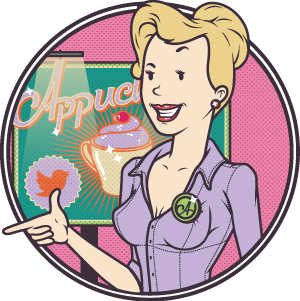
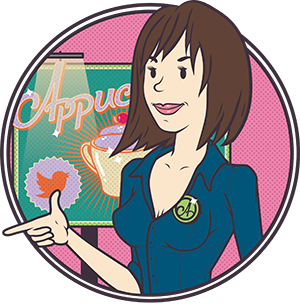
new pictures, client first foto, small css fix in about_us

diff --git a/about_us.html b/about_us.html
@@ -45,7 +45,7 @@
 		<div class="persons_list">
 
 			<div class="person">
-				<div class="foto"><img src="images/about_us/person-01.png" /></div>
+				<div class="foto"><img src="images/about_us/person-01.png" srcset="images/about_us/person-01hq.png"/></div>
 				<div class="name">Alexey Rashevksiy</div>
 				<div class="occupation">Founder & Manager</div>
 				<div class="about">I am not sure whether you need to tell couple of nice words about that useful member of your team.</div>
@@ -69,7 +69,7 @@
 				<div class="about">With all the talk about self-improvement these days, people don't pay enough attention to self-worsening.</div>
 			</div>
 			<div class="person">
-				<div class="foto"><img src="images/about_us/person-05.png" /></div>
+				<div class="foto"><img src="images/about_us/person-05.png"  srcset="images/about_us/person-05hq.png"/></div>
 				<div class="name">Miss Moneypenny</div>
 				<div class="occupation">Doing all the work</div>
 				<div class="about">I enjoyed working in male-dominated teams in the knowledge that being the only woman in the room meant I was affecting the dynamic and making a subtle but satisfying difference.</div>

diff --git a/index.html b/index.html
@@ -168,10 +168,10 @@
 
 			<ul class="responses swiper-wrapper">
 				<li class="swiper-slide">
-					<div class="foto"><img src="images/splash/clients/01.png" /></div>
-					<div class="name">Alexander Zladostanov</div>
-					<div class="occupation">Surgeon in Blackrock Hospital</div>
-					<blockquote>As you can see here we own a recipe for perfect apps and not a single app we make misses any of the ingredients: sleek design, flawless functionality and perfect user experience.</blockquote>
+					<div class="foto"><img src="images/splash/clients/01.jpg" srcset="images/splash/clients/01hq.jpg"/></div>
+					<div class="name">Conor & James McCarthy</div>
+					<div class="occupation">Flipdish Co-Founders</div>
+					<blockquote>Appuchino take meticulous care over every aspect of app design and development. Alexey is unusual in that he has both a in depth technical knowledge of large-project software development and also an artistic eye and aptitude for design.</blockquote>
 				</li>
 				<li class="swiper-slide">
 					<div class="foto"><img src="images/splash/clients/01.png" /></div>

diff --git a/css/splash.css b/css/splash.css
@@ -269,6 +269,9 @@
 					display: block;
 					margin: 0 auto;
 				}
+					.slide_responses ul.responses .foto img {
+						max-width: 13vw;
+					}
 				.slide_responses ul.responses .name {
 					display: block;
 					margin: .9vw auto .35vw;
@@ -287,7 +290,7 @@
 					display: block;
 					margin: 1.375vw auto;
 					color: #9c9c9c;
-					width: 35%;
+					width: 50%;
 				}
 
 

diff --git a/css/about_us.css b/css/about_us.css
@@ -13,7 +13,7 @@
 
 	.about_us header ._deco ._deco_bottom {
 		position: absolute;
-		bottom: 0;
+		bottom: -1px;
 		left: 0;
 		background-image: url('../images/milk-wave.svg');
 		background-repeat: no-repeat;
